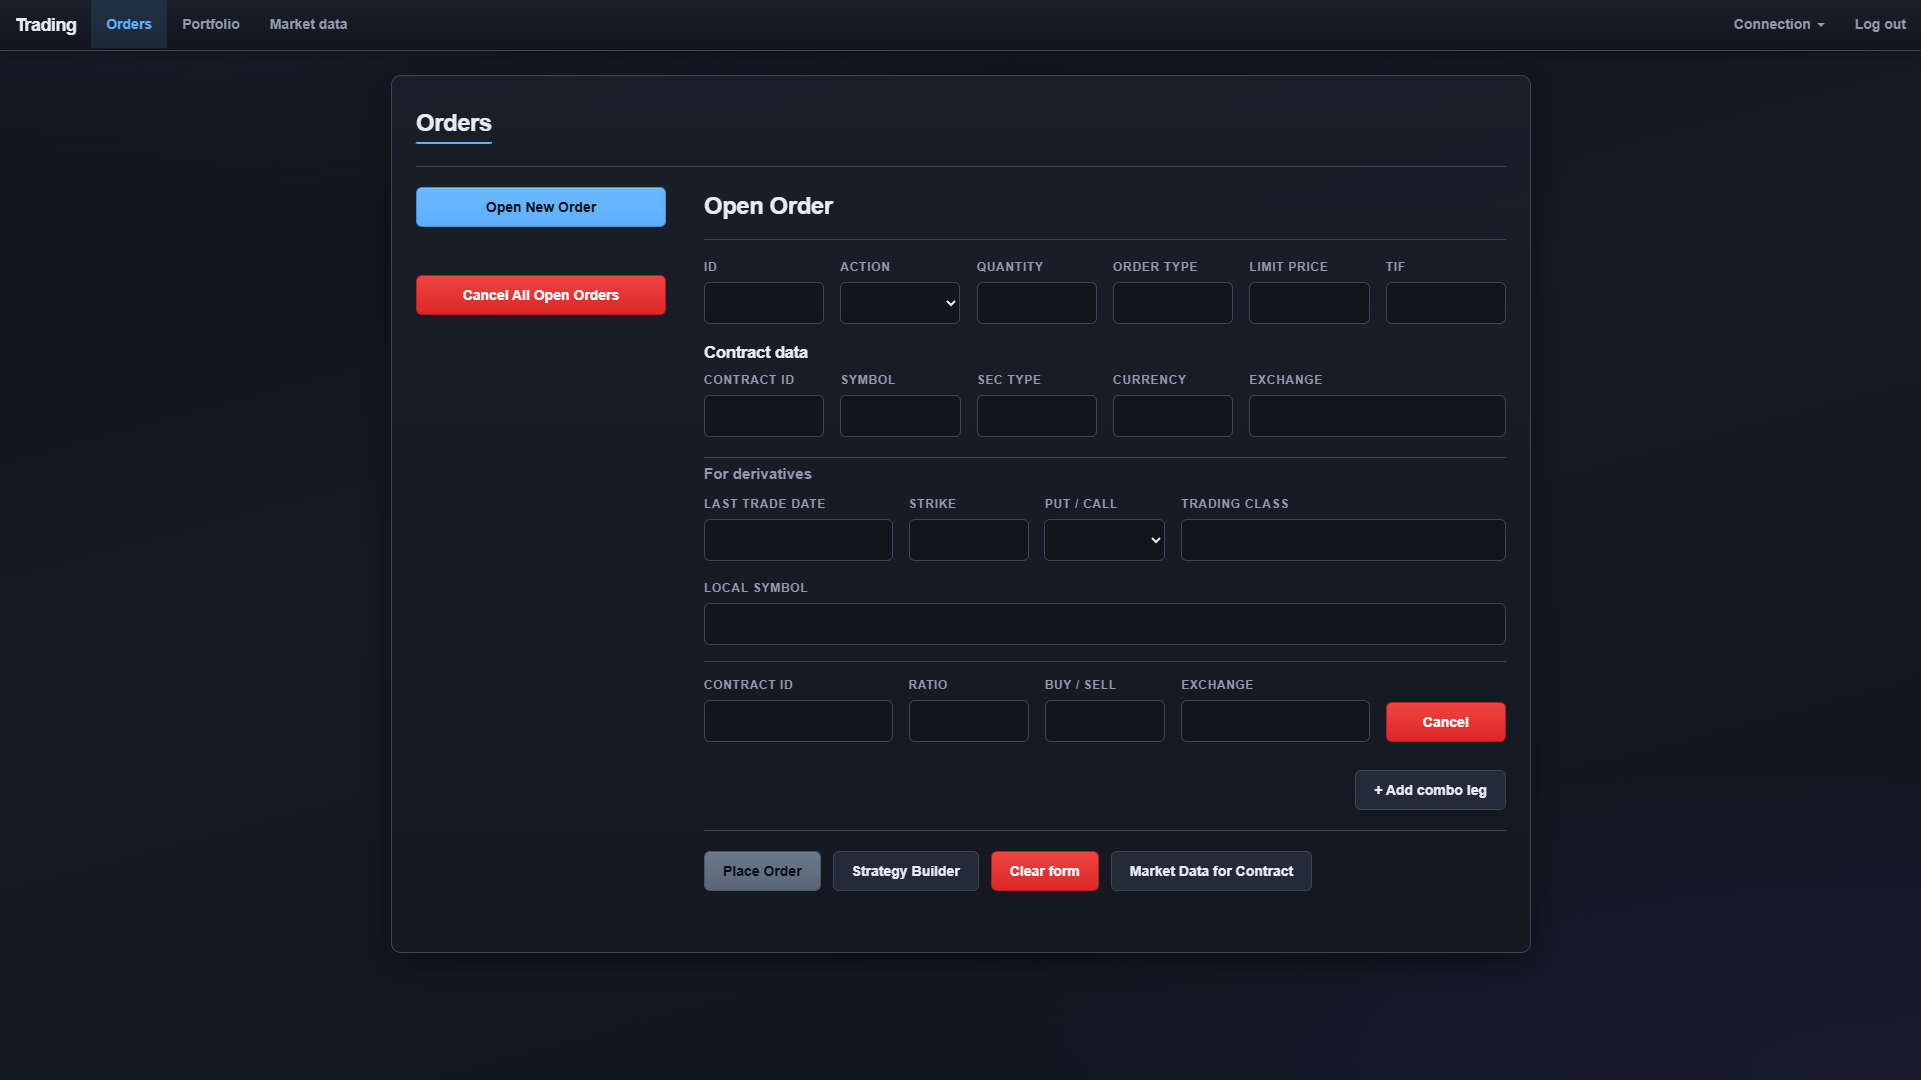
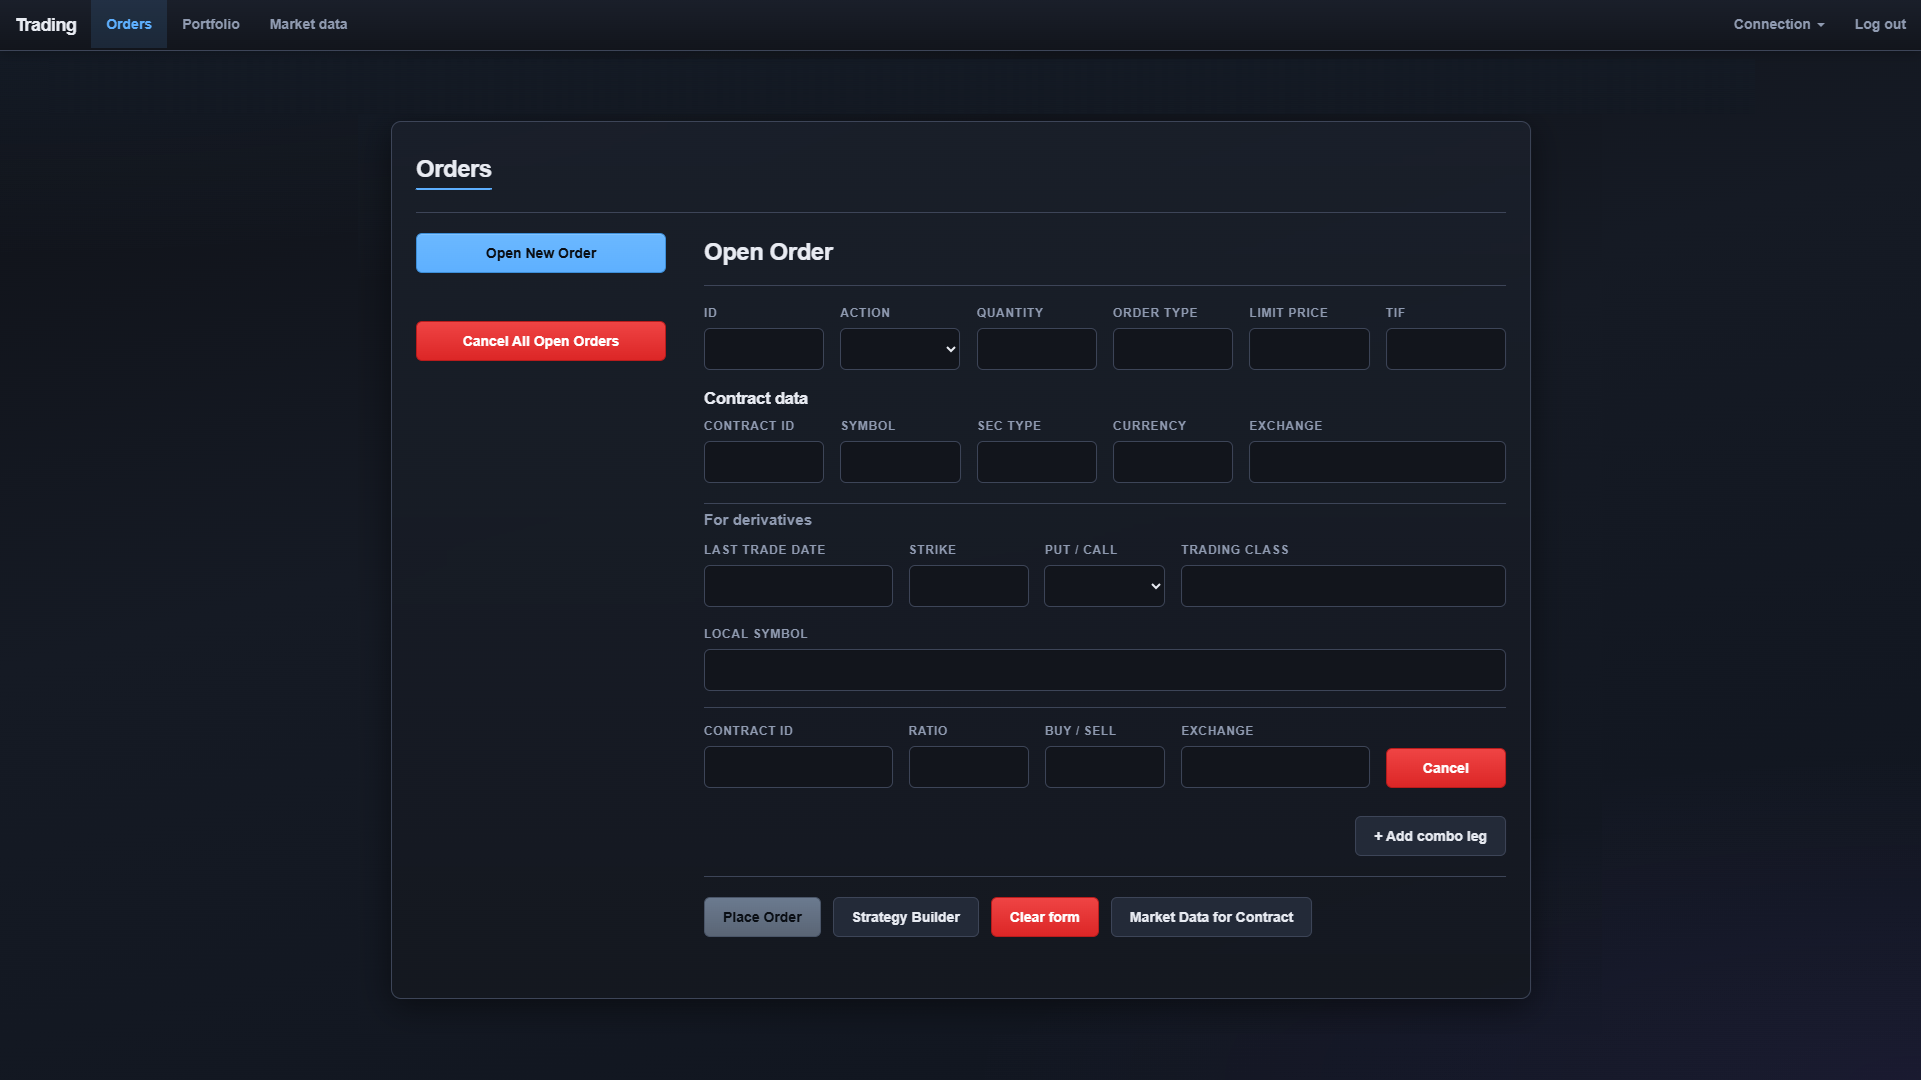
docs: add frontend screenshots to the root readme

diff --git a/README.md b/README.md
@@ -73,6 +73,30 @@ docker compose down
 
 ---
 
+## Screenshots
+
+Angular UI (with a working API and data, or **`npm run start:screenshot-mocks`** in **`springboot-trading-frontend`** for static demo data):
+
+### Orders
+
+Compose and submit orders, combo legs, and open market data for the contract.
+
+![Orders — order form](screenshots/orders_new.png)
+
+### Portfolio
+
+Account summary, positions, P&L, and per-contract drill-down.
+
+![Portfolio — positions and account panels](screenshots/portfolio.png)
+
+### Market data
+
+Streaming-style ticker cards (bid / ask / last) per subscribed contract.
+
+![Market data — ticker cards](screenshots/market_data.png)
+
+---
+
 ## Run manually (without `run-all`)
 
 ### Backend only (easiest dev stack — no Kafka / no TWS)
